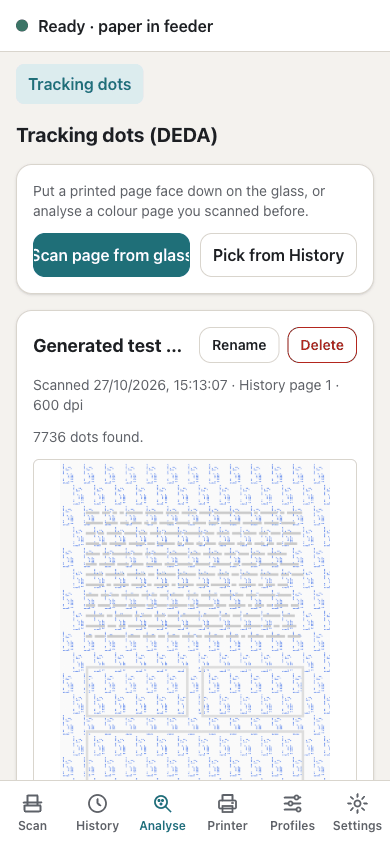
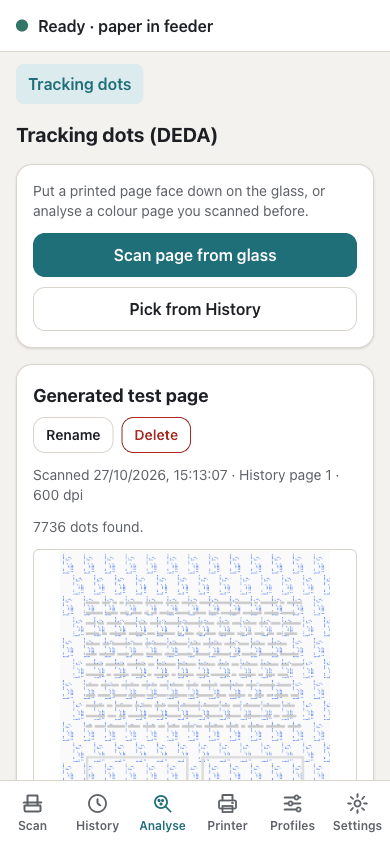
fix(web): tracking-dots page fits a phone screen

Changed region(s): [[0.0308, 0.2773, 0.9538, 0.9242]]

diff --git a/webapp/src/web/components/analyse/DedaItem.tsx b/webapp/src/web/components/analyse/DedaItem.tsx
@@ -29,17 +29,18 @@ export const DedaItem = memo(function DedaItem({ analysis: a }: { analysis: Deda
 
   return (
     <li className="card">
+      {/* On a phone the name (or the rename form) takes the whole first line and the buttons go below it. */}
       <div className="flex flex-wrap items-center gap-2">
         {draft === null ? (
           <>
-            <h2 className="m-0 min-w-0 flex-1 truncate text-lg font-bold">{name}</h2>
+            <h2 className="m-0 w-full min-w-0 text-lg font-bold [overflow-wrap:anywhere] sm:w-auto sm:flex-1 sm:truncate">{name}</h2>
             <button className="btn btn-sm" onClick={() => setDraft(name)}>
               Rename
             </button>
           </>
         ) : (
           <form
-            className="flex min-w-0 flex-1 gap-2"
+            className="flex w-full min-w-0 gap-2 sm:w-auto sm:flex-1"
             onSubmit={(e) => {
               e.preventDefault();
               save();

diff --git a/webapp/src/web/components/analyse/DedaActions.tsx b/webapp/src/web/components/analyse/DedaActions.tsx
@@ -11,11 +11,12 @@ export function DedaActions() {
   return (
     <div className="card">
       <p className="hint">Put a printed page face down on the glass, or analyse a colour page you scanned before.</p>
-      <div className="flex flex-wrap gap-2.5">
-        <button className="btn btn-primary flex-1" disabled={scan.isPending} onClick={() => scan.mutate()}>
+      {/* Stacked full width on a phone: side by side the labels do not fit. */}
+      <div className="flex flex-col gap-2.5 sm:flex-row">
+        <button className="btn btn-primary sm:flex-1" disabled={scan.isPending} onClick={() => scan.mutate()}>
           Scan page from glass
         </button>
-        <button className="btn flex-1" onClick={() => setPicking(true)}>
+        <button className="btn sm:flex-1" onClick={() => setPicking(true)}>
           Pick from History
         </button>
       </div>
